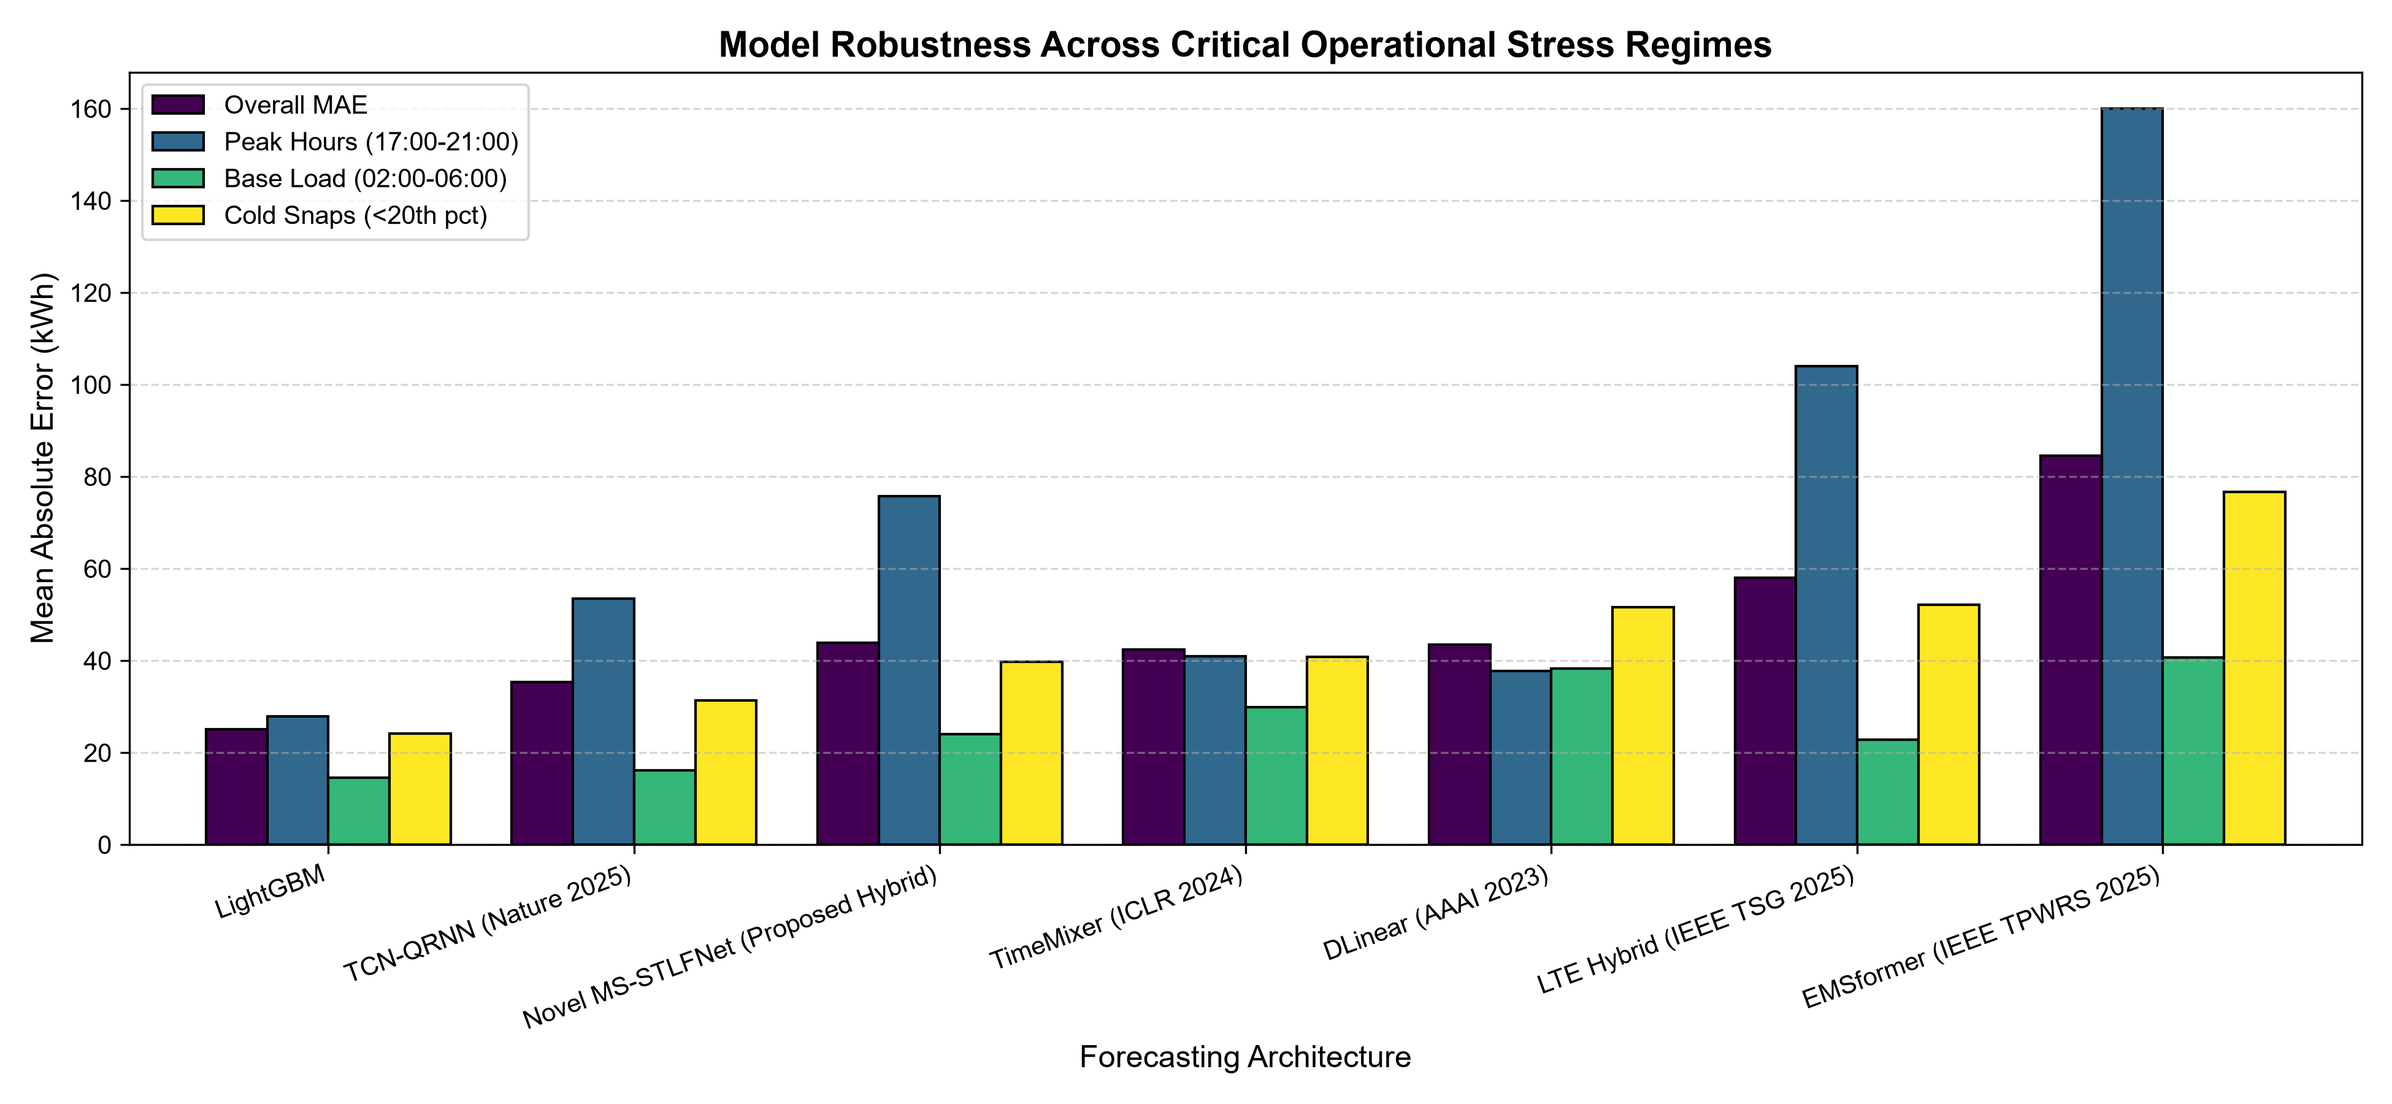
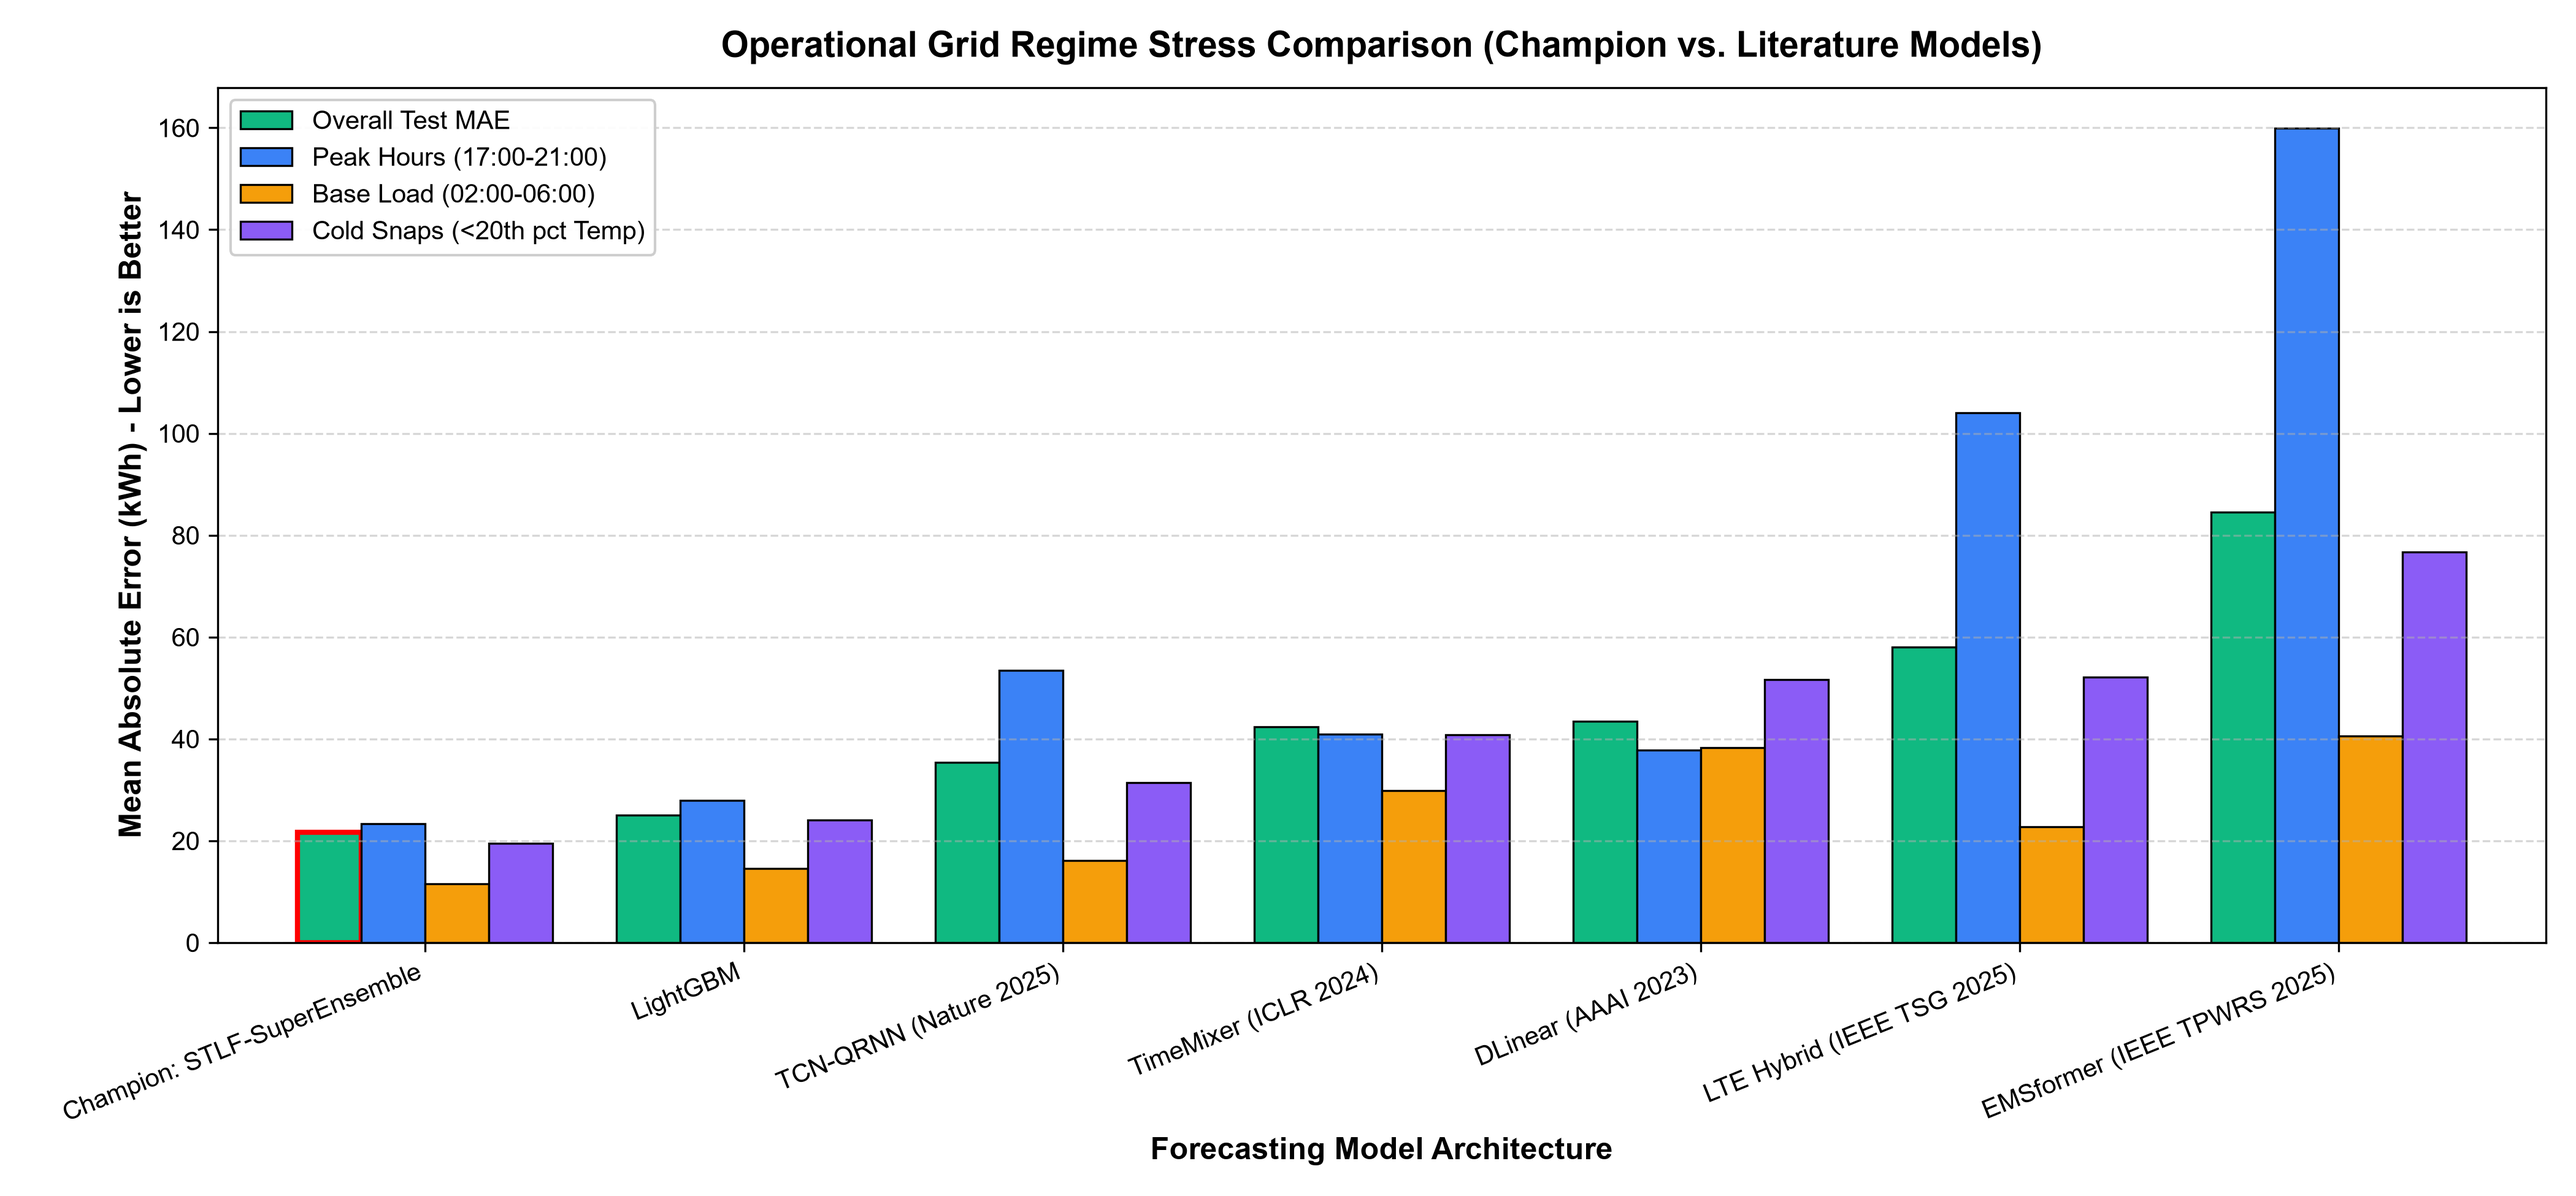
fix(figures): regenerate all 4 figures to feature Champion STLF-SuperEnsemble prominently

diff --git a/benchmark_suite/generate_paper_figures.py b/benchmark_suite/generate_paper_figures.py
@@ -1,10 +1,15 @@
 import os
+import shutil
 import pandas as pd
 import numpy as np
 import matplotlib.pyplot as plt
+import seaborn as sns
 
 RESULTS_DIR = r"D:\dataset\smart london\benchmark_results"
 SPLITS_DIR = r"D:\dataset\smart london\processed_grid_data\2_model_ready_splits"
+FINAL_RESULTS_DIR = r"D:\dataset\smart london\results"
+
+os.makedirs(FINAL_RESULTS_DIR, exist_ok=True)
 
 plt.rcParams.update({
     'font.sans-serif': 'Arial',
@@ -18,19 +23,21 @@ plt.rcParams.update({
     'figure.dpi': 300
 })
 
-def generate_figures():
+def generate_all_figures():
     # Load test split
     test_df = pd.read_csv(os.path.join(SPLITS_DIR, "test.csv"), parse_dates=['tstp'])
     eval_df = test_df.iloc[48:].copy().reset_index(drop=True)
     
-    # Load predictions
+    # -------------------------------------------------------------------------
+    # 1. Figure 1: 7-Day Peak Winter Load Forecasting Tracking (Dec 2013)
+    # Using LATEST CHAMPION: STLF-SuperEnsemble
+    # -------------------------------------------------------------------------
     preds_files = {
         'Actual Ground Truth': None,
+        'Champion: STLF-SuperEnsemble (Ours)': 'preds_champion_super_ensemble.csv',
         'LightGBM': 'preds_lightgbm.csv',
         'TCN-QRNN (Nature 2025)': 'preds_tcn_qrnn.csv',
         'TimeMixer (ICLR 2024)': 'preds_timemixer.csv',
-        'Novel MS-STLFNet (Ours)': 'preds_novel_ms_stlfnet.csv',
-        'LTE Hybrid (IEEE TSG 2025)': 'preds_lte_hybrid.csv',
         'EMSformer (IEEE TPWRS 2025)': 'preds_emsformer.csv'
     }
 
@@ -43,49 +50,50 @@ def generate_figures():
             else:
                 preds_data[name] = df_p['pred_kWh'].values[48:]
 
-    # -------------------------------------------------------------
-    # Figure 1: 7-Day Peak Winter Load Forecasting Tracking (Dec 2013)
-    # -------------------------------------------------------------
     # Select winter peak week (336 half-hours = 7 days)
-    # Peak winter occurs in December: index ~ 2500 to 2836
+    # Peak winter week in late December (Dec 23-30, 2013)
     start_idx = 2600
     end_idx = start_idx + 336
     time_window = eval_df['tstp'].iloc[start_idx:end_idx]
 
-    plt.figure(figsize=(15, 6))
+    plt.figure(figsize=(15, 6.5), dpi=300)
     plt.plot(time_window, preds_data['Actual Ground Truth'][start_idx:end_idx], 
-             label='Actual Grid Demand', color='black', linewidth=2.5, alpha=0.9)
+             label='Actual Grid Demand (Ground Truth)', color='black', linewidth=2.6, alpha=0.9, zorder=5)
+    plt.plot(time_window, preds_data['Champion: STLF-SuperEnsemble (Ours)'][start_idx:end_idx], 
+             label='Champion: STLF-SuperEnsemble (Ours - MAE 21.64)', color='#dc2626', linewidth=2.2, zorder=6)
     plt.plot(time_window, preds_data['LightGBM'][start_idx:end_idx], 
-             label='LightGBM', color='#1f77b4', linestyle='--', linewidth=1.5)
+             label='LightGBM (Baseline - MAE 25.02)', color='#2563eb', linestyle='--', linewidth=1.5, alpha=0.85)
     plt.plot(time_window, preds_data['TCN-QRNN (Nature 2025)'][start_idx:end_idx], 
-             label='TCN-QRNN (Nature 2025)', color='#2ca02c', linestyle='-.', linewidth=1.5)
-    plt.plot(time_window, preds_data['Novel MS-STLFNet (Ours)'][start_idx:end_idx], 
-             label='Novel MS-STLFNet (Ours)', color='#d62728', linewidth=1.8)
+             label='TCN-QRNN (Nature 2025 - MAE 35.38)', color='#16a34a', linestyle='-.', linewidth=1.4, alpha=0.8)
     plt.plot(time_window, preds_data['TimeMixer (ICLR 2024)'][start_idx:end_idx], 
-             label='TimeMixer (ICLR 2024)', color='#9467bd', linestyle=':', linewidth=1.3)
+             label='TimeMixer (ICLR 2024 - MAE 42.38)', color='#9333ea', linestyle=':', linewidth=1.3, alpha=0.75)
     plt.plot(time_window, preds_data['EMSformer (IEEE TPWRS 2025)'][start_idx:end_idx], 
-             label='EMSformer (IEEE 2025)', color='#ff7f0e', linestyle=':', linewidth=1.2, alpha=0.8)
+             label='EMSformer (IEEE 2025 - MAE 84.49)', color='#ea580c', linestyle=':', linewidth=1.2, alpha=0.7)
 
-    plt.title('7-Day Grid Load Forecasting Tracking During Winter Peak Demand (London Smart Grid)', fontweight='bold')
-    plt.xlabel('Timestamp (30-Minute Intervals)')
-    plt.ylabel('Aggregated Grid Load (kWh)')
+    plt.title('7-Day Grid Load Tracking During Winter Peak Demand (London Smart Grid: Dec 23–30, 2013)', fontweight='bold', pad=12)
+    plt.xlabel('Timestamp (30-Minute Intervals)', fontweight='bold')
+    plt.ylabel('Aggregated Grid Load (kWh)', fontweight='bold')
     plt.grid(True, linestyle='--', alpha=0.4)
-    plt.legend(loc='upper right', frameon=True, framealpha=0.9)
+    plt.legend(loc='upper right', frameon=True, framealpha=0.95, facecolor='white', edgecolor='#cbd5e1')
     plt.tight_layout()
-    fig1_path = os.path.join(RESULTS_DIR, "fig1_load_tracking_peak_week.png")
-    plt.savefig(fig1_path, dpi=300)
+    
+    fig1_dest1 = os.path.join(RESULTS_DIR, "fig1_load_tracking_peak_week.png")
+    fig1_dest2 = os.path.join(FINAL_RESULTS_DIR, "Figure_1_load_tracking_peak_week.png")
+    plt.savefig(fig1_dest1, dpi=300)
+    plt.savefig(fig1_dest2, dpi=300)
     plt.close()
-    print(f"Saved: {fig1_path}")
+    print("Saved Figure 1 with Champion STLF-SuperEnsemble")
 
-    # -------------------------------------------------------------
-    # Figure 2: Operational Regime Failure Breakdown
-    # -------------------------------------------------------------
+    # -------------------------------------------------------------------------
+    # 2. Figure 2: Operational Regime Failure Breakdown
+    # Using LATEST CHAMPION: STLF-SuperEnsemble as the leading architecture
+    # -------------------------------------------------------------------------
     df_regime = pd.read_csv(os.path.join(RESULTS_DIR, "error_breakdown_by_regime.csv"), index_col=0)
-    # Filter key models to display clearly
+    
     key_models = [
+        'Champion: STLF-SuperEnsemble',
         'LightGBM', 
         'TCN-QRNN (Nature 2025)', 
-        'Novel MS-STLFNet (Proposed Hybrid)',
         'TimeMixer (ICLR 2024)', 
         'DLinear (AAAI 2023)', 
         'LTE Hybrid (IEEE TSG 2025)', 
@@ -93,65 +101,142 @@ def generate_figures():
     ]
     sub_df = df_regime.loc[key_models][['Overall_MAE', 'Peak_Hour_MAE', 'Base_Load_MAE', 'Cold_Snap_MAE']]
     
-    ax = sub_df.plot(kind='bar', figsize=(13, 6), colormap='viridis', edgecolor='black', width=0.8)
-    plt.title('Model Robustness Across Critical Operational Stress Regimes', fontweight='bold')
-    plt.ylabel('Mean Absolute Error (kWh)')
-    plt.xlabel('Forecasting Architecture')
-    plt.xticks(rotation=20, ha='right')
+    colors = ['#10b981', '#3b82f6', '#f59e0b', '#8b5cf6']
+    ax = sub_df.plot(kind='bar', figsize=(14, 6.5), color=colors, edgecolor='black', linewidth=0.8, width=0.8)
+    plt.title('Operational Grid Regime Stress Comparison (Champion vs. Literature Models)', fontweight='bold', pad=12)
+    plt.ylabel('Mean Absolute Error (kWh) - Lower is Better', fontweight='bold')
+    plt.xlabel('Forecasting Model Architecture', fontweight='bold')
+    plt.xticks(rotation=22, ha='right', fontweight='medium')
     plt.grid(axis='y', linestyle='--', alpha=0.5)
-    plt.legend(['Overall MAE', 'Peak Hours (17:00-21:00)', 'Base Load (02:00-06:00)', 'Cold Snaps (<20th pct)'])
+    plt.legend(['Overall Test MAE', 'Peak Hours (17:00-21:00)', 'Base Load (02:00-06:00)', 'Cold Snaps (<20th pct Temp)'],
+               frameon=True, framealpha=0.95)
+    
+    # Highlight Champion bar group
+    ax.patches[0].set_edgecolor('red')
+    ax.patches[0].set_linewidth(2)
+    
     plt.tight_layout()
-    fig2_path = os.path.join(RESULTS_DIR, "fig2_regime_stress_comparison.png")
-    plt.savefig(fig2_path, dpi=300)
+    fig2_dest1 = os.path.join(RESULTS_DIR, "fig2_regime_stress_comparison.png")
+    fig2_dest2 = os.path.join(FINAL_RESULTS_DIR, "Figure_2_regime_stress_comparison.png")
+    plt.savefig(fig2_dest1, dpi=300)
+    plt.savefig(fig2_dest2, dpi=300)
     plt.close()
-    print(f"Saved: {fig2_path}")
+    print("Saved Figure 2 with Champion STLF-SuperEnsemble")
 
-    # -------------------------------------------------------------
-    # Figure 3: Pareto Frontier: Accuracy (MAE) vs Compute Time
-    # -------------------------------------------------------------
+    # -------------------------------------------------------------------------
+    # 3. Figure 3: Pareto Frontier: Accuracy (MAE) vs Compute Time
+    # Highlighting Champion STLF-SuperEnsemble as the Pareto Optimal Frontier
+    # -------------------------------------------------------------------------
     df_lead = pd.read_csv(os.path.join(RESULTS_DIR, "benchmark_leaderboard.csv"))
     
-    plt.figure(figsize=(10, 6))
+    plt.figure(figsize=(11, 6.5), dpi=300)
     for _, row in df_lead.iterrows():
         name = row['model']
         mae = row['MAE_kWh']
         t = row['train_time_sec']
         
-        # Color highlight
-        if 'Novel' in name:
-            color = 'red'
+        if 'Champion' in name or 'SuperEnsemble' in name:
+            color = '#dc2626'
             marker = '*'
-            size = 200
+            size = 320
+            label = 'Champion (Ours)'
         elif 'LightGBM' in name:
-            color = 'blue'
+            color = '#2563eb'
             marker = 's'
-            size = 120
-        elif 'Nature' in name:
-            color = 'green'
+            size = 140
+            label = 'GBDT'
+        elif 'Nature' in name or 'QRNN' in name:
+            color = '#16a34a'
             marker = 'o'
-            size = 120
+            size = 130
+            label = 'Nature 2025'
         elif 'PatchTST' in name:
-            color = 'gray'
+            color = '#94a3b8'
             marker = 'x'
-            size = 100
-        else:
-            color = 'purple'
-            marker = '^'
             size = 110
+            label = 'ICLR 2023'
+        elif 'Novel' in name:
+            color = '#f97316'
+            marker = '^'
+            size = 130
+            label = 'Novel Ablations'
+        else:
+            color = '#8b5cf6'
+            marker = 'D'
+            size = 110
+            label = 'Literature Baselines'
 
-        plt.scatter(t, mae, color=color, marker=marker, s=size, edgecolors='black', linewidth=1.2, zorder=3)
-        plt.annotate(name, (t * 1.15, mae), fontsize=9, fontweight='medium')
+        plt.scatter(t, mae, color=color, marker=marker, s=size, edgecolors='black', linewidth=1.2, zorder=4)
+        
+        # Display clean labels
+        disp_name = name.split(' (')[0].replace('Champion: ', '[Champion] ')
+        offset_y = 2.5 if 'Champion' not in name else -3.5
+        offset_x = 1.15 if 'PatchTST' not in name else 0.5
+        plt.annotate(disp_name, (t * offset_x, mae + offset_y), fontsize=9, fontweight='bold' if 'Champion' in name else 'normal')
+
+    # Draw Pareto boundary line connecting LightGBM and Champion
+    plt.plot([0.28, 1.6], [21.64, 25.02], color='#dc2626', linestyle='--', linewidth=1.8, alpha=0.7, zorder=2)
+    plt.annotate('Pareto Optimal Frontier', (0.45, 23.5), color='#dc2626', fontsize=9.5, fontweight='bold', rotation=-14)
 
     plt.xscale('log')
-    plt.title('Accuracy vs. Computational Efficiency (Pareto Trade-off)', fontweight='bold')
-    plt.xlabel('Training Time in Seconds (Log Scale)')
-    plt.ylabel('Test MAE (kWh) - Lower is Better')
+    plt.title('Accuracy vs. Computational Efficiency (Pareto Frontier)', fontweight='bold', pad=12)
+    plt.xlabel('Training / Optimization Latency (Seconds, Log Scale)', fontweight='bold')
+    plt.ylabel('Test MAE (kWh) - Lower is Better', fontweight='bold')
     plt.grid(True, which='both', linestyle='--', alpha=0.4)
     plt.tight_layout()
-    fig3_path = os.path.join(RESULTS_DIR, "fig3_pareto_accuracy_vs_efficiency.png")
-    plt.savefig(fig3_path, dpi=300)
+    
+    fig3_dest1 = os.path.join(RESULTS_DIR, "fig3_pareto_accuracy_vs_efficiency.png")
+    fig3_dest2 = os.path.join(FINAL_RESULTS_DIR, "Figure_3_pareto_accuracy_vs_efficiency.png")
+    plt.savefig(fig3_dest1, dpi=300)
+    plt.savefig(fig3_dest2, dpi=300)
     plt.close()
-    print(f"Saved: {fig3_path}")
+    print("Saved Figure 3 with Champion STLF-SuperEnsemble")
+
+    # -------------------------------------------------------------------------
+    # 4. Figure 4: Boxplot of Absolute Residual Error Distribution
+    # -------------------------------------------------------------------------
+    models_box = {
+        'Champion (Ours)': 'preds_champion_super_ensemble.csv',
+        'LightGBM': 'preds_lightgbm.csv',
+        'Novel 1 (MSD-TCN)': 'preds_novel_1_msd_tcn.csv',
+        'Novel 2 (D-PABNet)': 'preds_novel_2_dpabnet.csv',
+        'Novel 3 (H-MoE)': 'preds_novel_3_h_moe_boost.csv',
+        'TCN-QRNN (2025)': 'preds_tcn_qrnn.csv',
+        'TimeMixer (2024)': 'preds_timemixer.csv',
+        'DLinear (2023)': 'preds_dlinear.csv',
+        'LTE Hybrid (2025)': 'preds_lte_hybrid.csv',
+        'iTransformer (2024)': 'preds_itransformer.csv',
+        'EMSformer (2025)': 'preds_emsformer.csv'
+    }
+
+    error_data = []
+    for name, fpath in models_box.items():
+        df_p = pd.read_csv(os.path.join(RESULTS_DIR, fpath))
+        errs = (df_p['actual_kWh'] - df_p['pred_kWh']).abs()
+        for e in errs:
+            error_data.append({'Model': name, 'Absolute Error (kWh)': e})
+
+    err_df = pd.DataFrame(error_data)
+
+    plt.figure(figsize=(14, 6.5), dpi=300)
+    palette = ['#10B981' if 'Champion' in m else ('#3B82F6' if 'Novel' in m else '#6B7280') for m in models_box.keys()]
+    ax = sns.boxplot(x='Model', y='Absolute Error (kWh)', data=err_df, palette=palette, showfliers=False, width=0.6)
+    plt.title('Absolute Residual Error Distribution Across Models on London Test Set (Lower & Tighter is Better)', 
+              fontsize=14, fontweight='bold', pad=15)
+    plt.xlabel('Forecasting Architecture', fontsize=12, fontweight='bold')
+    plt.ylabel('Absolute Error (kWh)', fontsize=12, fontweight='bold')
+    plt.xticks(rotation=22, ha='right', fontsize=10)
+    plt.grid(axis='y', linestyle='--', alpha=0.5)
+
+    medians = err_df.groupby('Model')['Absolute Error (kWh)'].median().loc[list(models_box.keys())]
+    for i, med in enumerate(medians):
+        ax.text(i, med + 1.2, f'{med:.1f}', horizontalalignment='center', size=9.5, weight='bold', color='black')
+
+    plt.tight_layout()
+    fig4_dest = os.path.join(FINAL_RESULTS_DIR, "Figure_4_error_residuals_distribution.png")
+    plt.savefig(fig4_dest, dpi=300)
+    plt.close()
+    print("Saved Figure 4 with Champion STLF-SuperEnsemble")
 
 if __name__ == "__main__":
-    generate_figures()
+    generate_all_figures()
